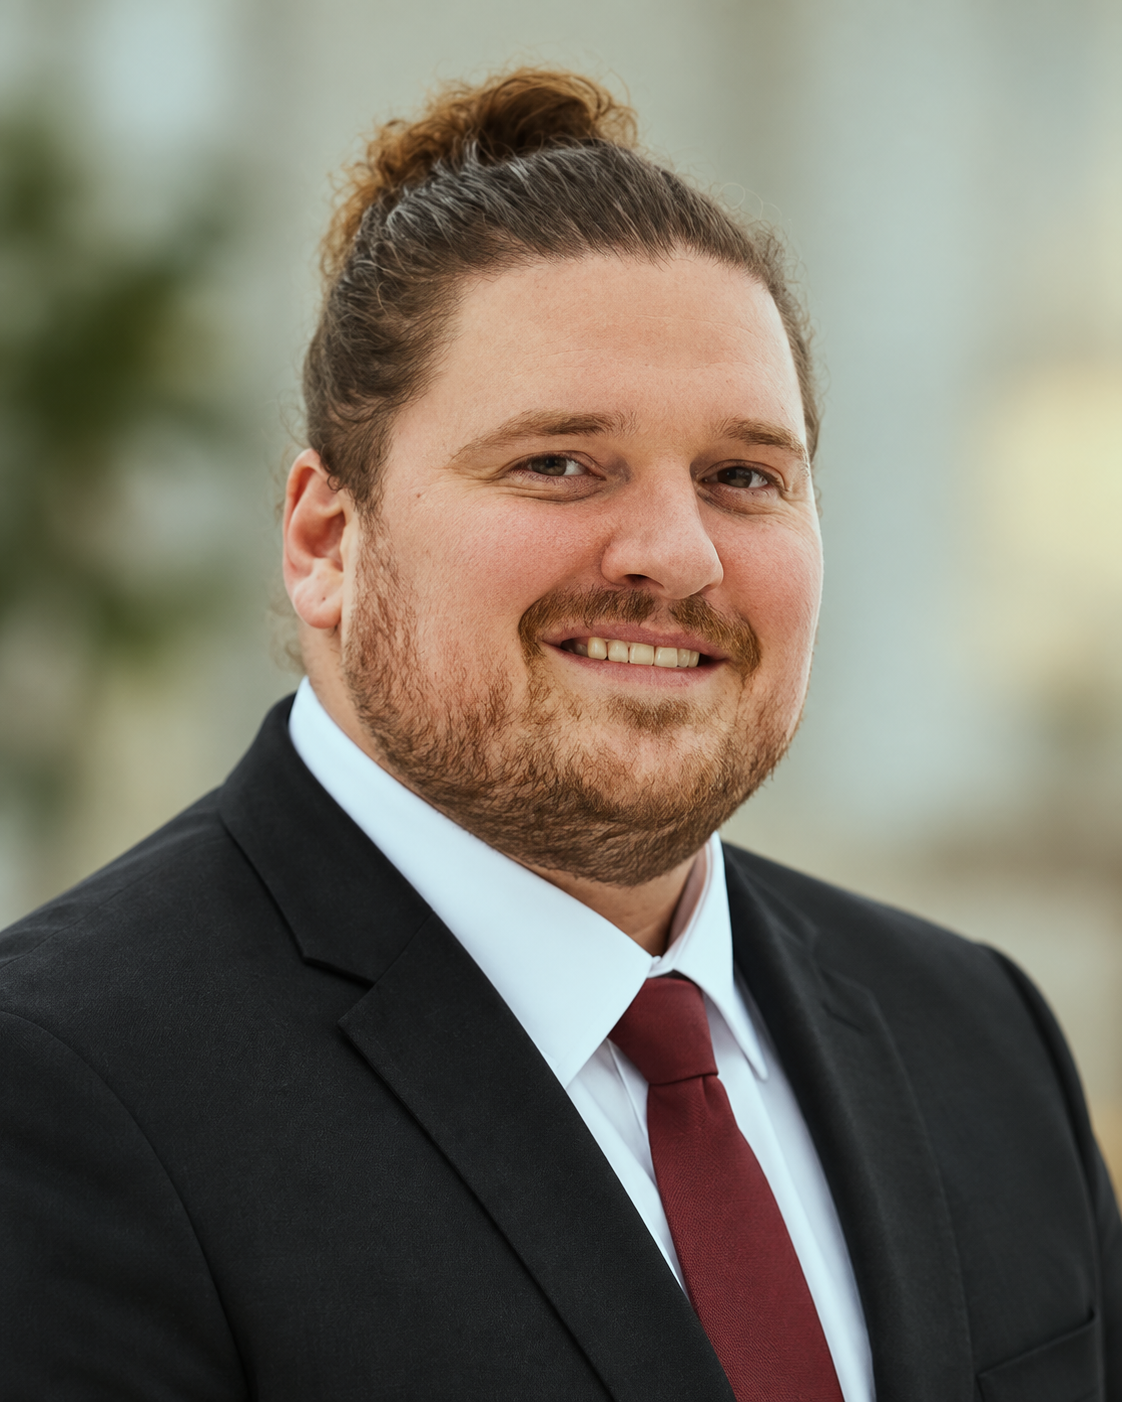
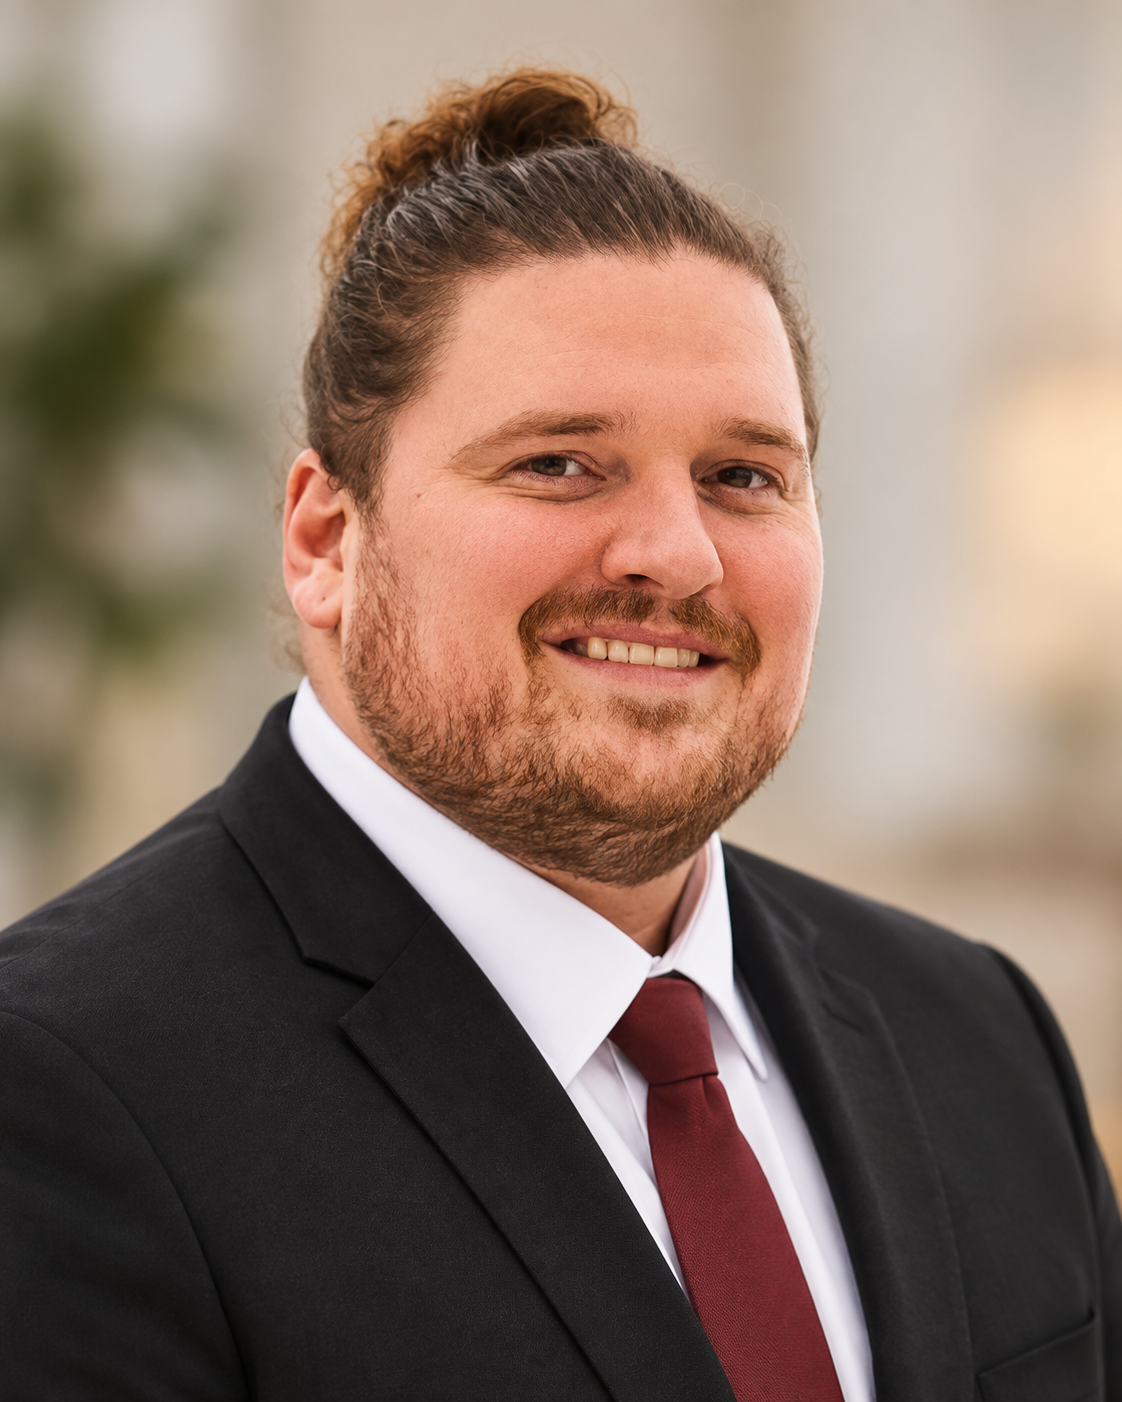
Add files via upload

diff --git a/index.html b/index.html
@@ -34,7 +34,6 @@
       <nav class="site-nav" id="site-nav" aria-label="Primary navigation">
         <a href="#approach">Approach</a>
         <a href="#fit">Who it's for</a>
-        <a href="#classes">Group classes</a>
         <a href="#rates">Rates</a>
         <a href="#contact">Contact</a>
       </nav>
@@ -284,70 +283,6 @@
     </section>
 
 
-    <section class="classes-section" id="classes">
-      <div class="wrap">
-        <div class="classes-intro">
-          <div class="section-tag">Small-group classes</div>
-          <div>
-            <h2>More discussion than a lecture. More affordable than one-on-one.</h2>
-            <p>
-              I’m exploring a small number of live online group classes built around students who are at a similar level
-              and have a similar goal. The emphasis would stay on interaction and problem solving—not turning tutoring
-              into a crowded Zoom lecture.
-            </p>
-          </div>
-        </div>
-
-        <div class="class-grid">
-          <article class="class-card">
-            <span class="class-label">Foundations Lab</span>
-            <h3>Build the skills underneath Algebra.</h3>
-            <p>
-              A small recurring group for students who need stronger number sense, fractions, signed numbers,
-              equations, and algebra readiness.
-            </p>
-            <ul>
-              <li>4–6 students</li>
-              <li>Weekly live sessions</li>
-              <li>Middle-school / early Algebra focus</li>
-            </ul>
-          </article>
-
-          <article class="class-card featured-class">
-            <span class="class-label">Math Circle</span>
-            <h3>Contest math &amp; non-routine problem solving.</h3>
-            <p>
-              A collaborative class for students who enjoy hard problems: patterns, counting, number theory,
-              geometry, strategy, and the kind of questions that reward insight more than memorization.
-            </p>
-            <ul>
-              <li>4–8 students</li>
-              <li>Problem-centered discussion</li>
-              <li>Great fit for advanced / contest students</li>
-            </ul>
-          </article>
-
-          <article class="class-card">
-            <span class="class-label">Course Cohort</span>
-            <h3>Learn alongside students taking the same course.</h3>
-            <p>
-              A focused group for students in courses such as Algebra II, Precalculus, or Calculus who want
-              regular instruction, review, and exam preparation without the cost of weekly private tutoring.
-            </p>
-            <ul>
-              <li>3–6 students</li>
-              <li>High school or college level</li>
-              <li>Course-specific pacing</li>
-            </ul>
-          </article>
-        </div>
-
-        <div class="classes-note">
-          <strong>Interested?</strong>
-          <span>Select “Small-group class” in the inquiry form and tell me the student’s course or goal. Groups would form only when there’s a good match in level and schedule.</span>
-        </div>
-      </div>
-    </section>
 
     <section class="rates-section" id="rates">
       <div class="wrap rates-layout">
@@ -458,7 +393,6 @@
                     <option>Online</option>
                     <option>In person</option>
                     <option>Either</option>
-                    <option>Small-group class</option>
                   </select>
                 </label>
                 <label>

diff --git a/styles.css b/styles.css
@@ -440,153 +440,3 @@ button,input,textarea,select{font:inherit}
 }
 
 
-/* Small-group classes */
-.classes-section{
-  padding:96px 0;
-  background:#fff;
-  border-top:1px solid var(--line);
-  border-bottom:1px solid var(--line);
-}
-
-.classes-intro{
-  display:grid;
-  grid-template-columns:180px 1fr;
-  gap:40px;
-  align-items:start;
-  margin-bottom:34px;
-}
-
-.classes-intro h2{
-  margin:0 0 16px;
-  font-family:"Instrument Serif",Georgia,serif;
-  font-size:clamp(2.7rem,5vw,4.7rem);
-  line-height:.97;
-  letter-spacing:-.03em;
-  max-width:880px;
-}
-
-.classes-intro p{
-  margin:0;
-  max-width:800px;
-  color:var(--muted);
-  font-size:1.05rem;
-}
-
-.class-grid{
-  display:grid;
-  grid-template-columns:repeat(3,1fr);
-  gap:14px;
-}
-
-.class-card{
-  min-height:390px;
-  display:flex;
-  flex-direction:column;
-  background:var(--bg);
-  border:1px solid var(--line);
-  border-radius:26px;
-  padding:26px;
-}
-
-.class-card.featured-class{
-  background:linear-gradient(145deg,#111327,#1b1e3d);
-  color:#fff;
-  border-color:#171a33;
-  transform:translateY(-8px);
-  box-shadow:var(--shadow);
-}
-
-.class-label{
-  display:inline-block;
-  align-self:flex-start;
-  text-transform:uppercase;
-  letter-spacing:.14em;
-  font-size:.7rem;
-  font-weight:700;
-  color:var(--accent);
-  margin-bottom:42px;
-}
-
-.featured-class .class-label{color:var(--gold)}
-
-.class-card h3{
-  margin:0 0 12px;
-  font-family:"Instrument Serif",Georgia,serif;
-  font-size:2rem;
-  line-height:1.02;
-}
-
-.class-card p{
-  margin:0 0 22px;
-  color:var(--muted);
-}
-
-.featured-class p{color:rgba(255,255,255,.72)}
-
-.class-card ul{
-  margin:auto 0 0;
-  padding:18px 0 0;
-  list-style:none;
-  border-top:1px solid var(--line);
-  display:grid;
-  gap:8px;
-  font-size:.88rem;
-}
-
-.featured-class ul{border-color:rgba(255,255,255,.14)}
-
-.class-card li::before{
-  content:"→";
-  margin-right:8px;
-  color:var(--accent);
-}
-
-.featured-class li::before{color:var(--gold)}
-
-.classes-note{
-  margin-top:20px;
-  display:grid;
-  grid-template-columns:auto 1fr;
-  gap:12px;
-  align-items:start;
-  padding:18px 20px;
-  border-radius:18px;
-  background:var(--soft);
-  color:#343a57;
-}
-
-.classes-note strong{color:var(--text)}
-
-.college-row{
-  background:linear-gradient(135deg,#f0f2ff,#fafaff);
-}
-
-@media (max-width:980px){
-  .classes-intro{grid-template-columns:1fr}
-  .class-grid{grid-template-columns:1fr}
-  .class-card{min-height:auto}
-  .class-card.featured-class{transform:none}
-}
-
-@media (max-width:720px){
-  .classes-section{padding:72px 0}
-  .classes-note{grid-template-columns:1fr}
-}
-
-
-/* Hero mathematical artwork */
-.board-card.image-board{
-  padding:0;
-  overflow:hidden;
-  background:#111327;
-  min-height:230px;
-}
-
-.board-card.image-board img{
-  display:block;
-  width:100%;
-  height:100%;
-  min-height:230px;
-  object-fit:cover;
-  object-position:center;
-}

diff --git a/README.md b/README.md
@@ -32,3 +32,5 @@ This is a redesigned static site for mathbytyler.com with a different visual lan
 - Replaced the sparse hero math panel with the denser generated mathematics artwork.
 
 - Replaced the dense hero math artwork with the new middle-ground version: random placement, slight rotations, faint grid, and moderate visual density.
+
+- Removed all small-group class content and inquiry options; site is back to one-on-one tutoring only.
